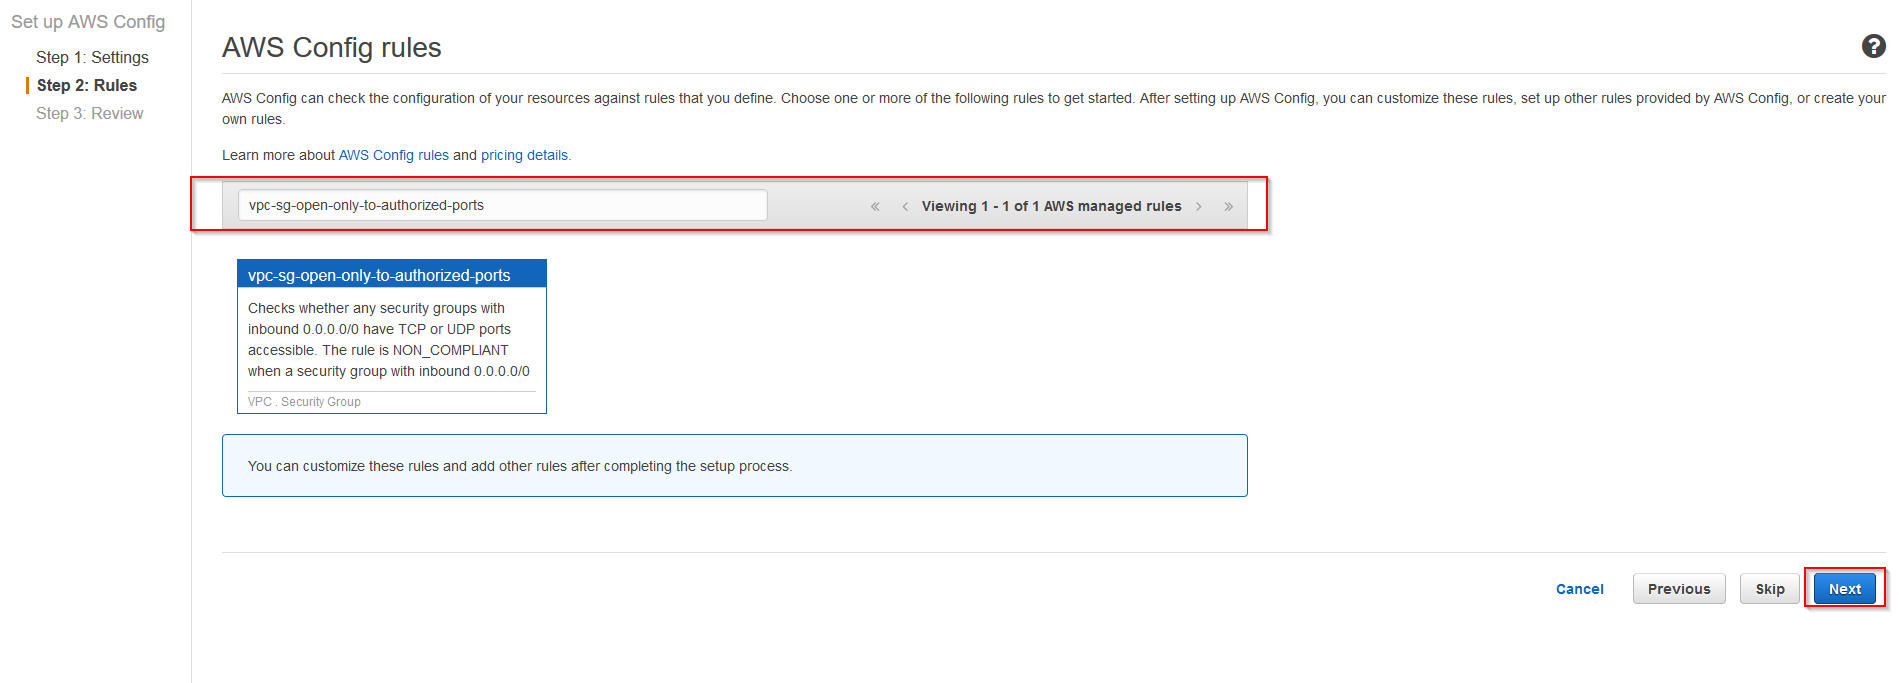
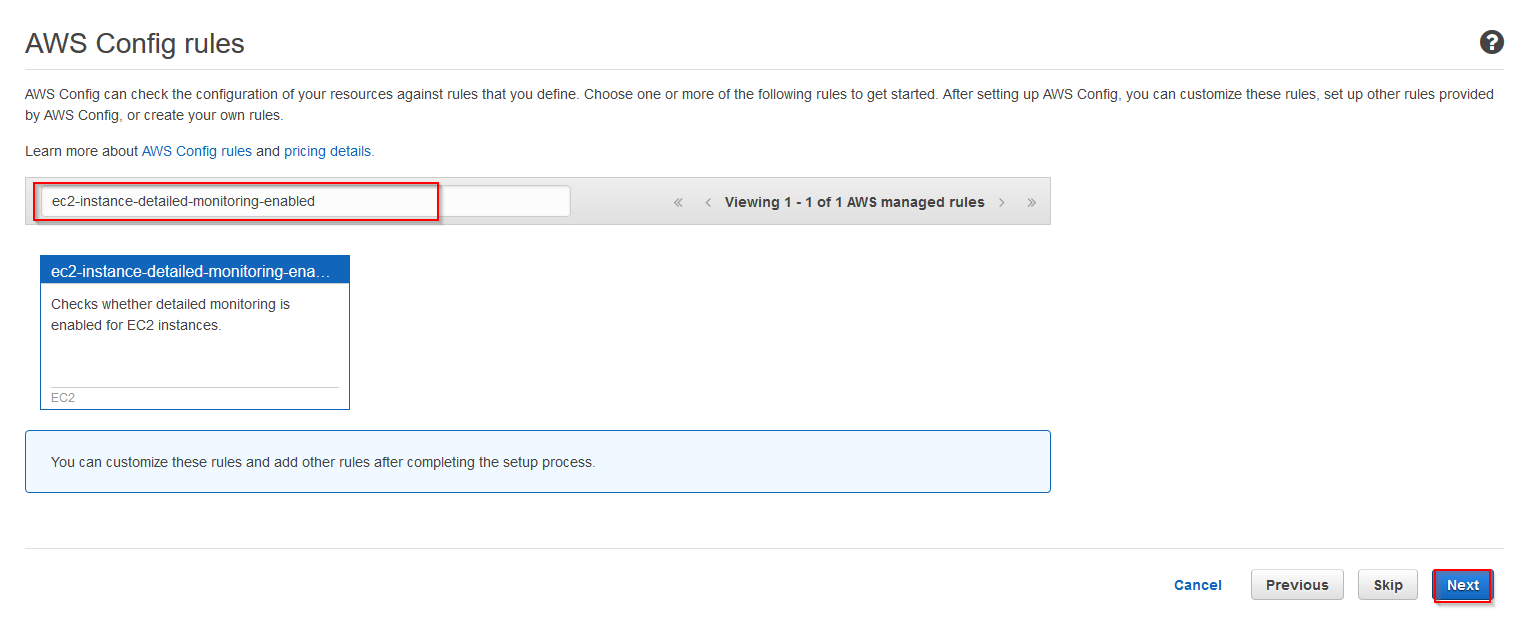
redeployed the config lab

diff --git a/03-Config-Lab/README.md b/03-Config-Lab/README.md
@@ -16,11 +16,11 @@
 ![images](images/036c0dde57bac060954ae8fc4ff8c332.png)
 
 4)  Select the following 3 rules:
-* vpc-sg-open-only-to-authorized-ports
+* ec2-instance-detailed-monitoring-enabled
 * cloudtrail-enabled 
 * multi-region-cloudtrail-enabled
 
-**:heavy_exclamation_mark: Use the search bar to find them** Click *Next* once done.
+**:heavy_exclamation_mark: Use the search bar to find them.** Click *Next* once done.
 
 ![images](images/a6966fb42a24a42322f3a8f6b6fcef18.png)
 
@@ -41,46 +41,36 @@
 
 ![images](images/7d7b49f223c61764d8af1d1a00f597cb.png)
 
-As we can see there is an alarm raised. This alarm states that we are not
-streaming the CloudTrail logs to CloudWatch. Let’s proceed and remediate this
+As we can see there is an alarm raised. This alarm states that there is an EC2 instance that does not have "Detailed Monitoring" Enabled. Let’s proceed and remediate this
 alarm.
 
-9)  Go to CloudTrail console – to do so search CloudTrail in the AWS Search
-    Service bar. Once on the console click on *View Trails* and click on the
-    trail created previously.
+9)  Lets click on the alarm and see what EC2 instance does not comply with our configuration rule. Take note of the instance ID so we can remediate this alarm.
 
-10)  In the configuration page, under the CloudWatch Logs section press the
-    *Configure*.
+![images](images/config-bad-rule.png)
+
+10)  Now that we have the EC2 instance that is not compliant let's go and enable the "Detaied Monitoring". Go to the *EC2 console* and under __Instances__ search for the 
+instance ID that has the alarm. 
 
 ![images](images/6ca4ad538d4c9721fa5ee1deaf09ea43.png)
 
-11)  Leave the default log group suggested by the wizard and press *Continue*.
+11)  Click on the monitoring tab after selecting the EC2 instance and then click __"Enable Detailed Monitoring"__.
 
 ![images](images/a857e16c7e873ae562fe0e594698d396.png)
 
-12)  Press *Allow* to have an IAM role created to allow CloudTrail to push logs
-    to CloudWatch.
+12)  Click __Yes, Enable__ and then click __Close__ .
 
-![images](images/28cbbb799d10a2c90b2d82e1aa524aad.png)
+![images](images/yes-enable-dm.png)
 
-13)  Once created you will see the *Log group* and *IAM role* created in the
-    CloudTrail configuration of the trail created earlier.
+13)  After enbling the detail monitoring, return to the AWS Config Console and re-evaluate the rule that shows and alarm.
 
 ![images](images/351dc23980958dc249d36d40ee4301e0.png)
 
-14)  Now let’s go back to AWS Config and click on
-    *cloud-trail-watch-logs-enabled*.
+Refresh the page a couple of times and the alarm should dissapear.
 
-![images](images/b2f084545b9dd8d85b38518c78ee719b.png)
+![images](images/no-alarms-config.png)
 
-15)  Click *Re-evaluate* to have AWS Config check if the corrective measures have
-    been successfully applied
+14) Check also the dashboard and make sure that no alarms are being reported
 
-![images](images/6135dc8f7b6170dd7e52af1695b18071.png)
+![images](images/dashboard-all-ok.png)
 
-16)  Refresh the console a couple of times. If the corrective measures have been
-    successfully applied you will see that the alarm has disappeared.
-
-![images](images/abe46a92e787db537b7921389463db05.png)
-
-Proceed to the [next lab (KMS Lab)](../04-KMS-Lab/README.md)
+Now that all the alarms dissapeared we can proceed to the [next lab (KMS Lab)](../04-KMS-Lab/README.md)
